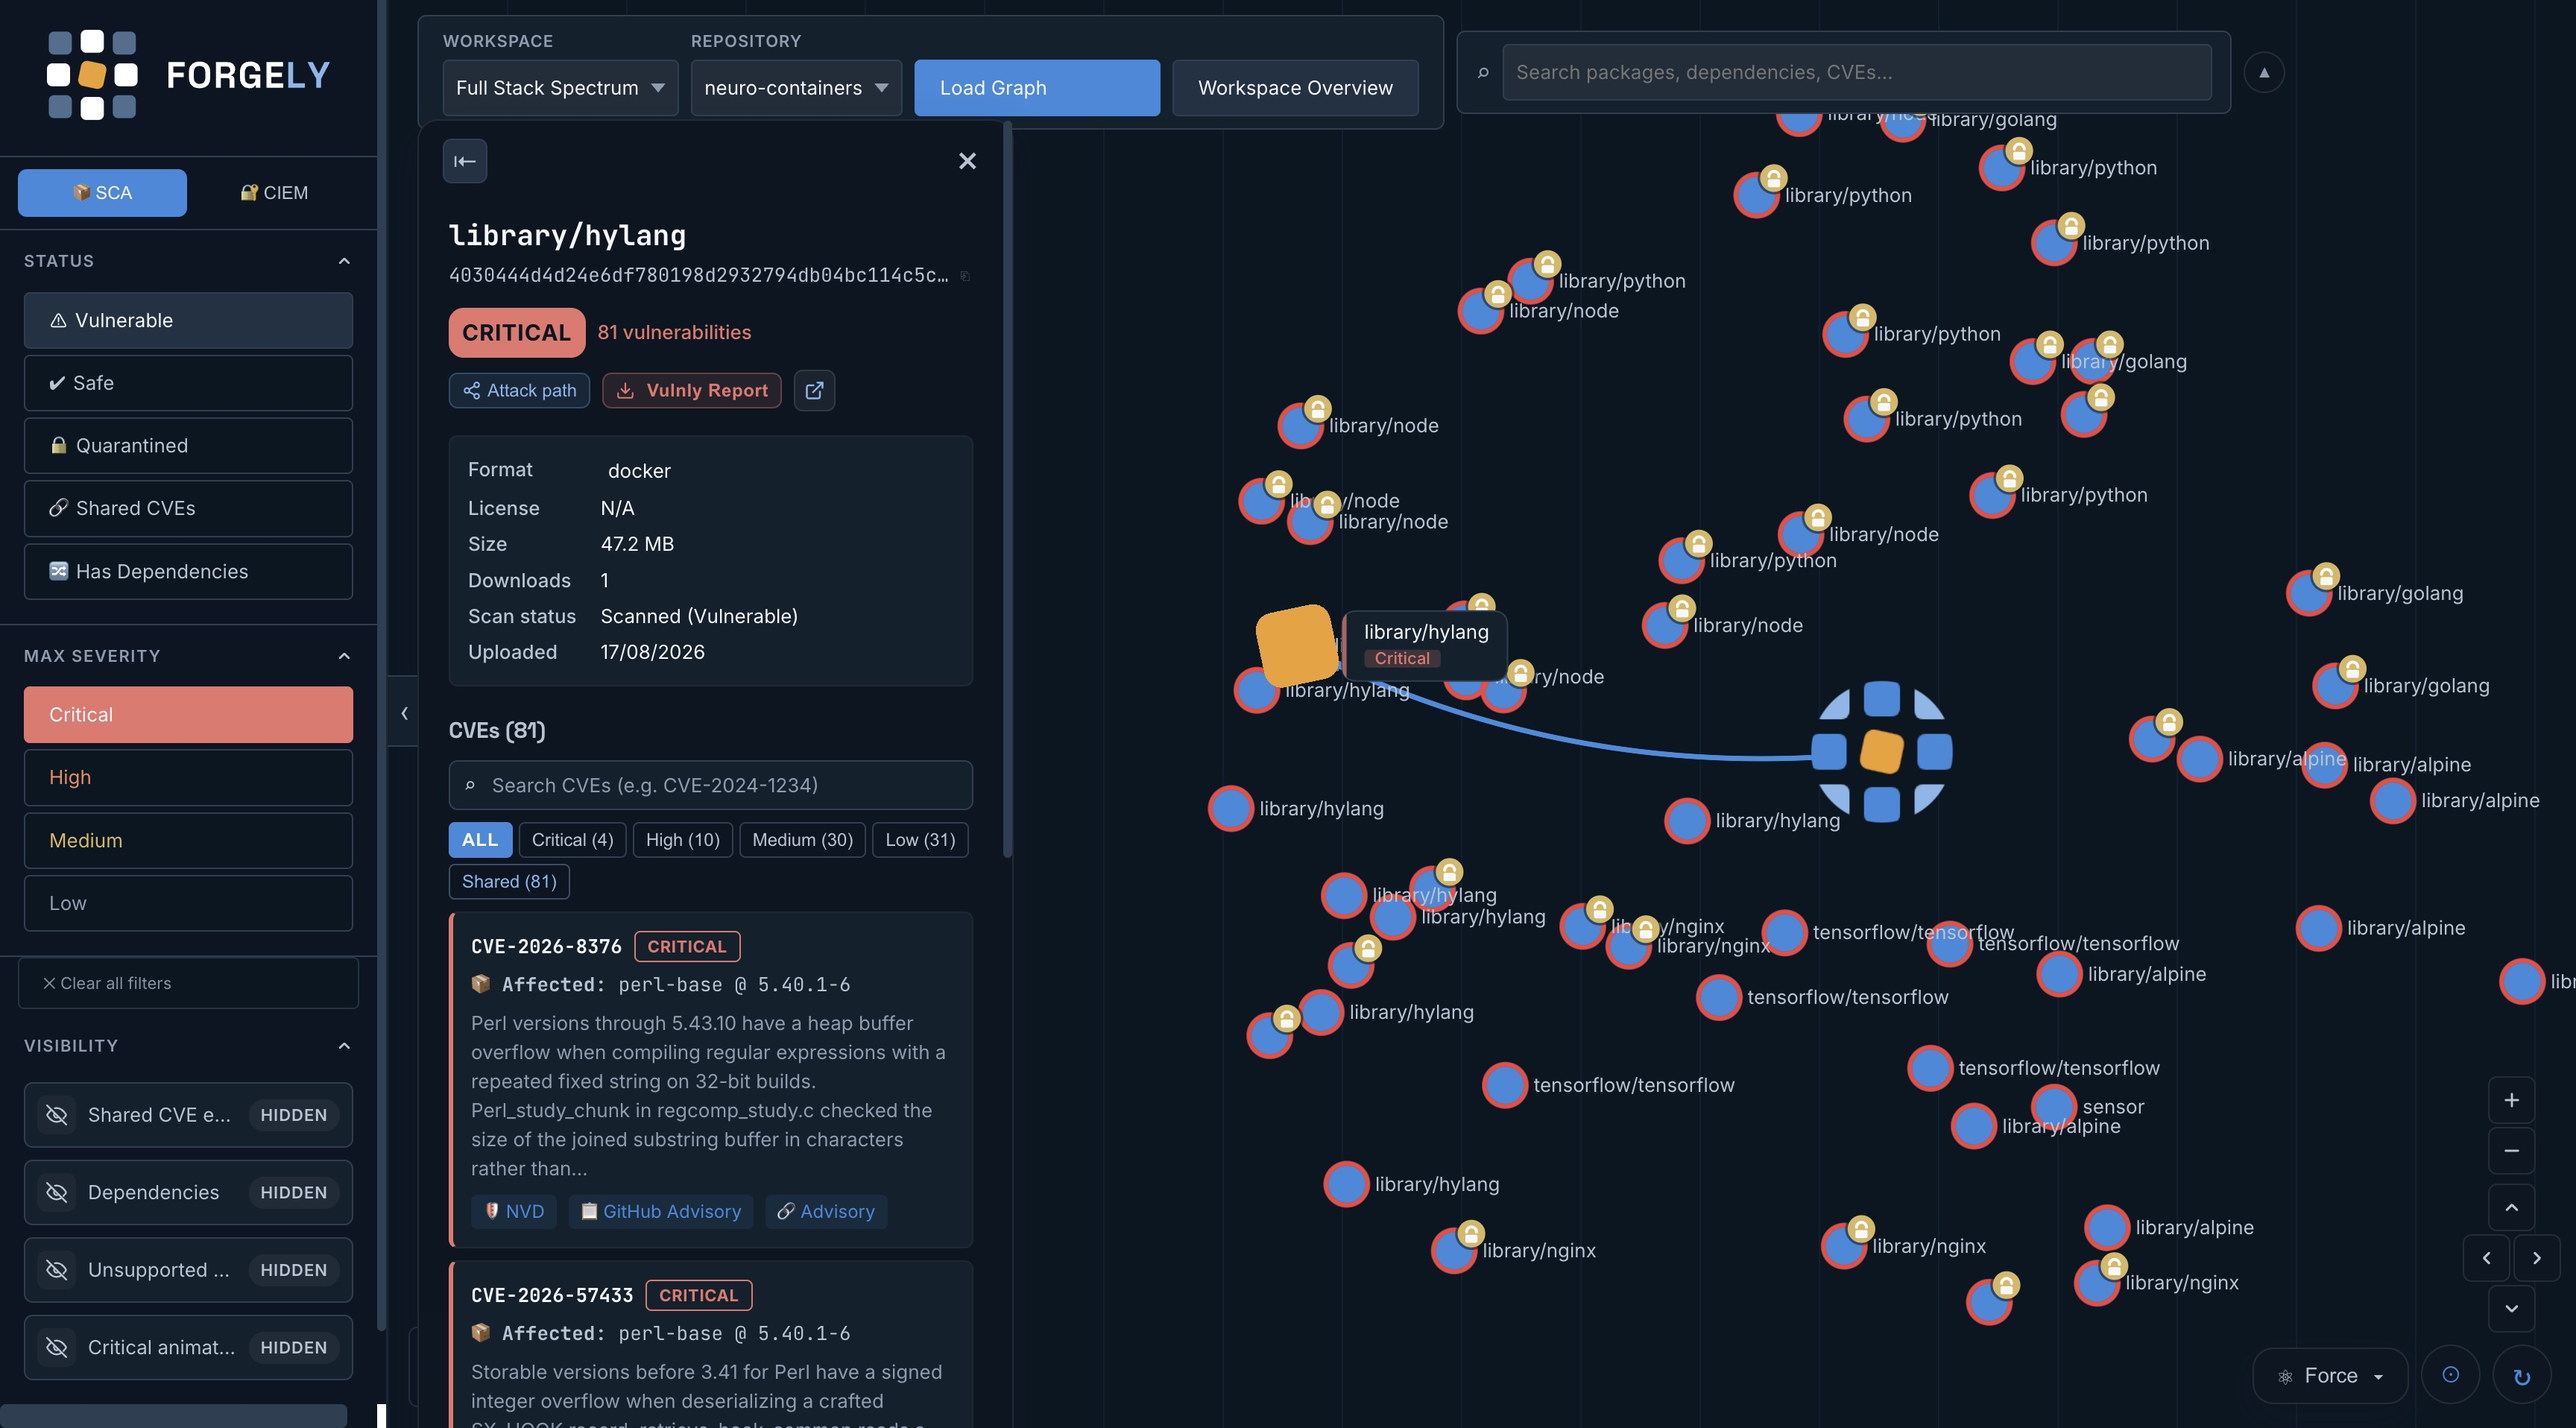
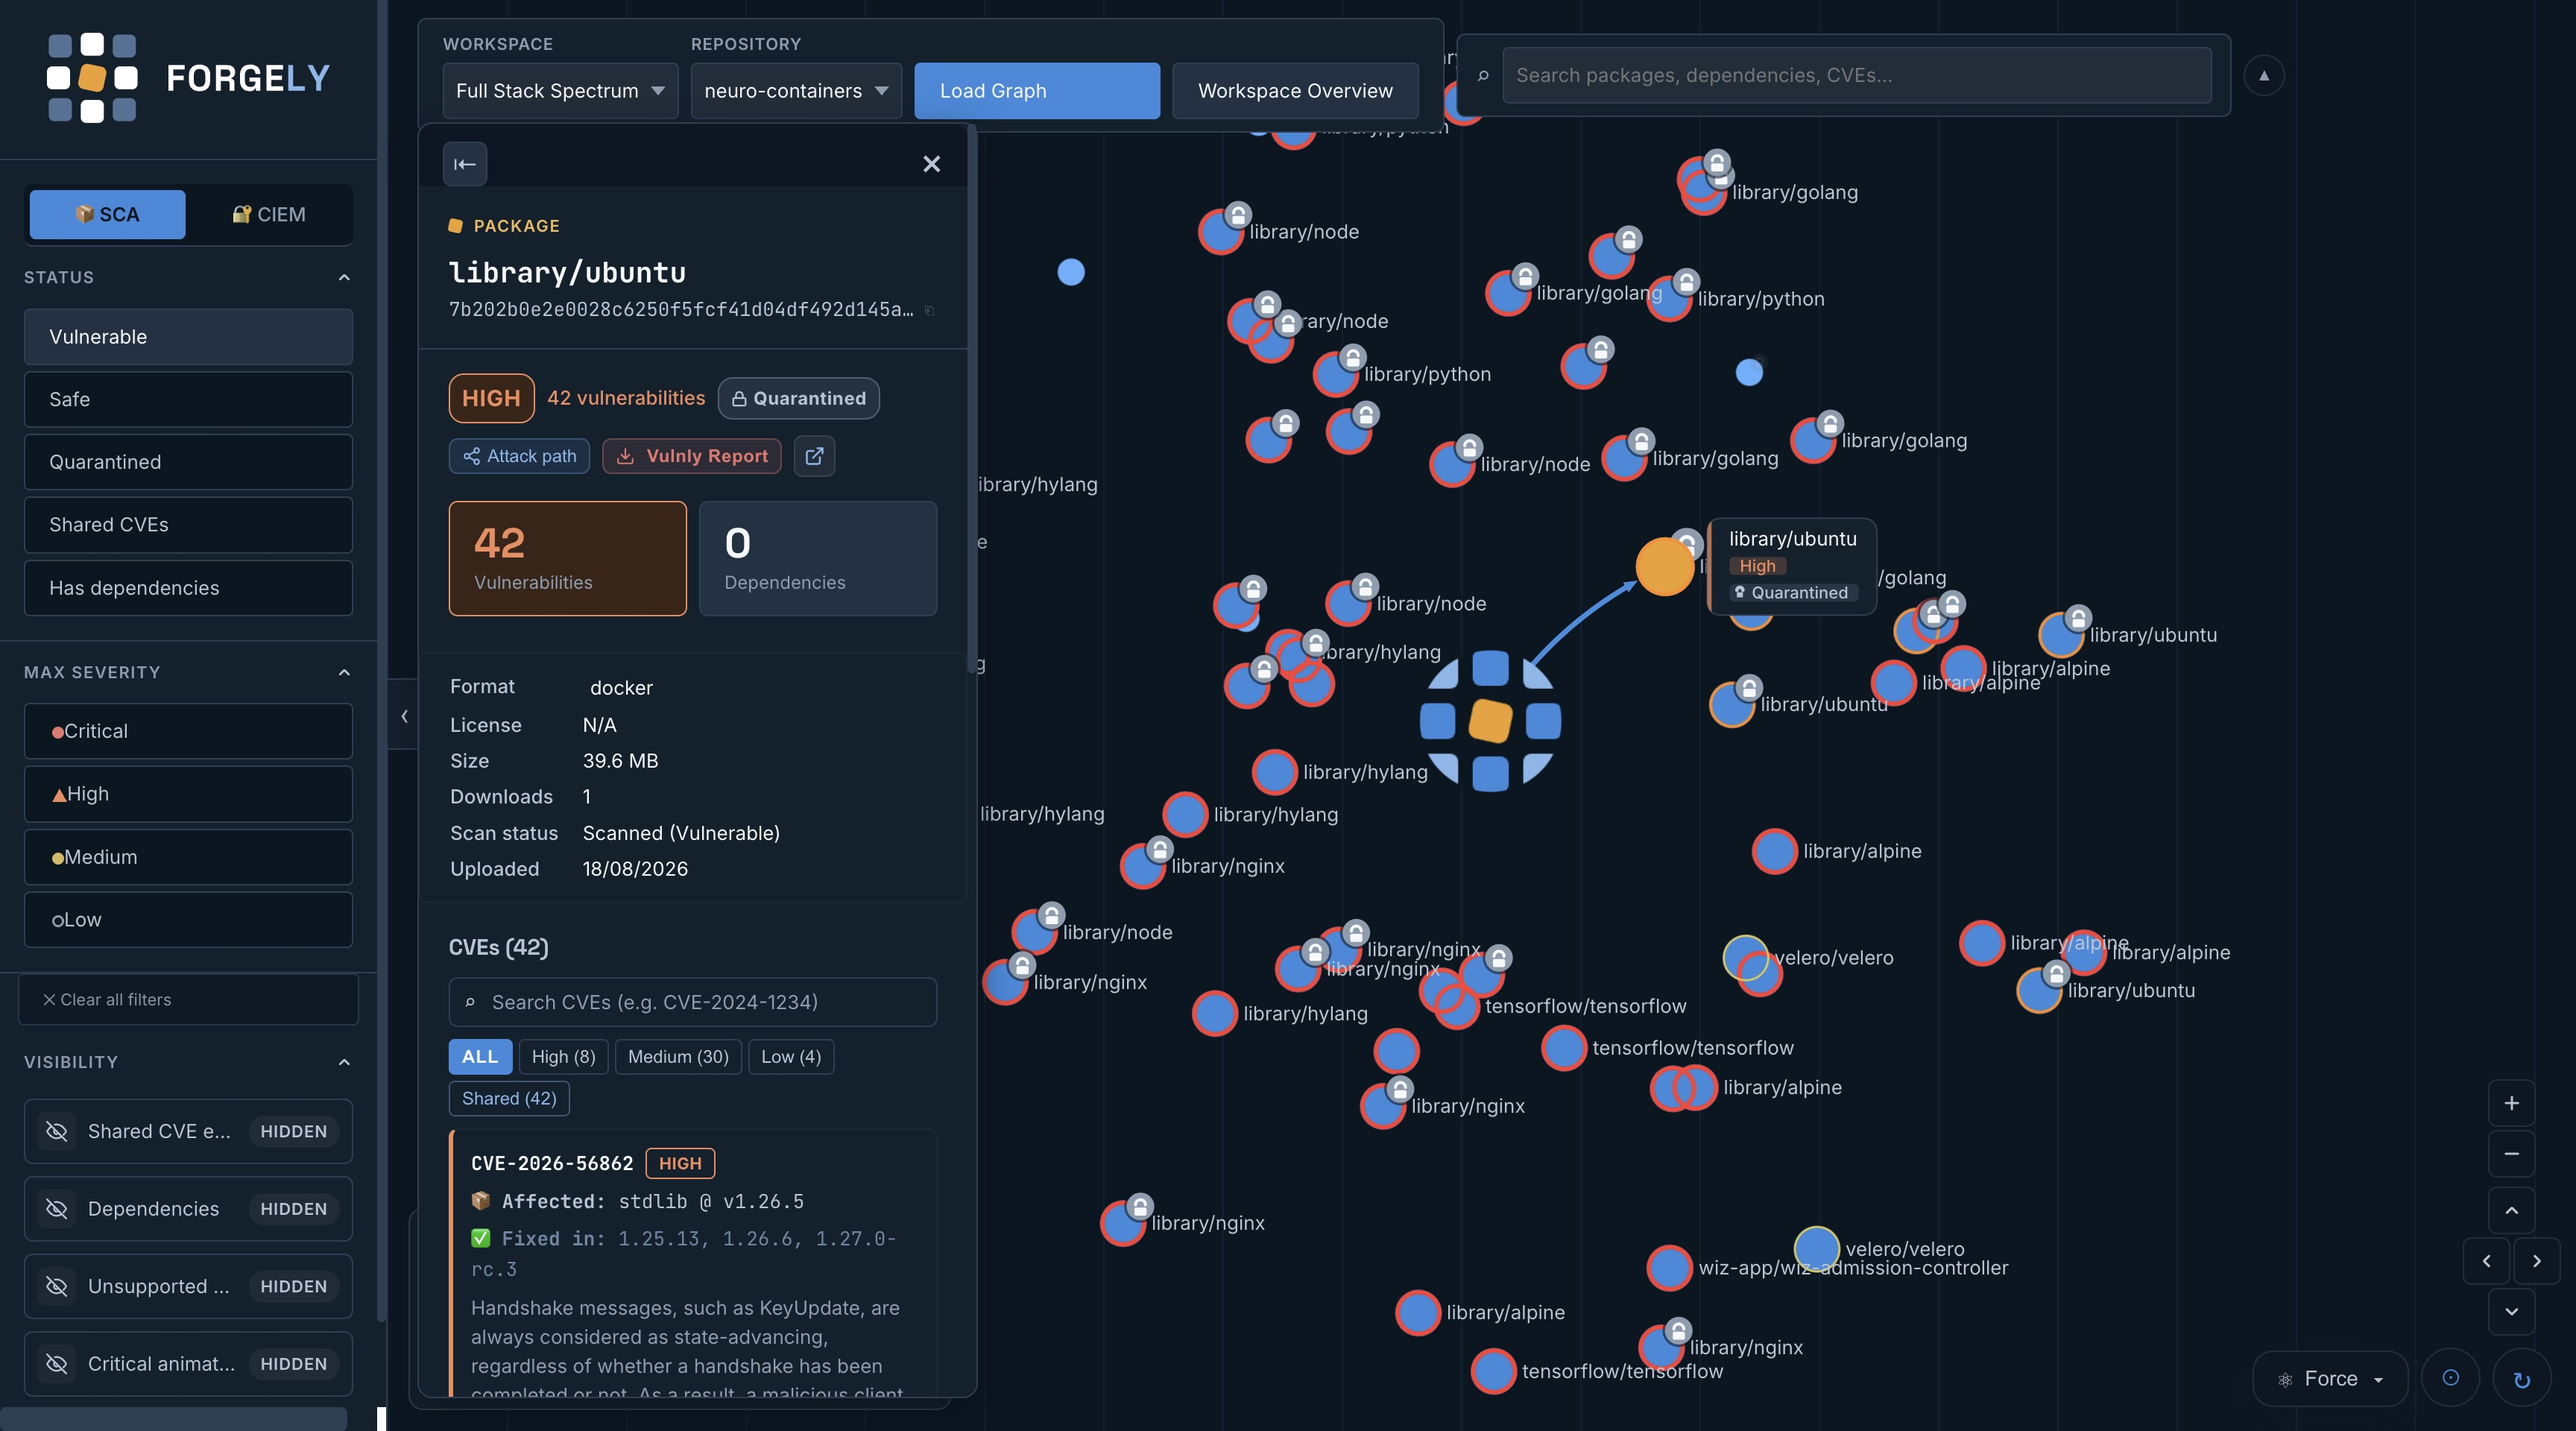
fix: don't treat hidden edges as relationships
Neighbours were computed with forEachNeighbor, which ignores edge kind.
Every vulnerable package shares CVEs with every other, so selecting one
made all 43 of them neighbours — and neighbours stay bright. Safe
packages dimmed correctly, which is why the bug only appeared when
selecting something vulnerable.

With "Shared CVE edges" hidden, those nodes stayed at full strength on
the basis of edges that were not even drawn. Traversal now skips hidden
edge kinds, in the neighbour set, the hop distances and the hover
dimming alike.

On neuro-containers, selecting the most vulnerable package now dims 201
nodes rather than 170.

diff --git a/frontend/src/components/GraphCanvas.tsx b/frontend/src/components/GraphCanvas.tsx
@@ -248,9 +248,25 @@ export default function GraphCanvas({
 
   /* Keep the ref in sync and tell sigma to re-render */
   useEffect(() => {
+    /* An edge the user has hidden is not a relationship they are looking at,
+       so it must not keep a node bright either. forEachNeighbor ignores edge
+       kind entirely, which meant every vulnerable package counted as a
+       neighbour of every other through shared-CVE edges — even with those
+       edges hidden. Selecting a vulnerable package therefore dimmed the safe
+       nodes and left every vulnerable one at full strength, with its edges
+       invisible: a highlight with nothing visible to justify it. */
+    const traversable = (attrs: { edgeKind?: string }) => {
+      if (attrs.edgeKind === "shared_cve" && hideSharedCveEdges) return false;
+      if (attrs.edgeKind === "dependency" && hideDependencies) return false;
+      return true;
+    };
+
     const neighbors = new Set<string>();
     if (selectedNode && graphRef.current) {
-      graphRef.current.forEachNeighbor(selectedNode, (n) => neighbors.add(n));
+      graphRef.current.forEachEdge(selectedNode, (_e, attrs, src, tgt) => {
+        if (!traversable(attrs)) return;
+        neighbors.add(src === selectedNode ? tgt : src);
+      });
     }
 
     /* Hop distance from the origin (§2.5). Fill encodes reach; the ring
@@ -280,6 +296,7 @@ export default function GraphCanvas({
                measured on neuro-containers, a vulnerable package gives
                {0:1, 1:39, 2:2, far:161} instead of {0:1, 1:40, 2:162}. */
             if (attrs.edgeKind === "repo_package") return;
+            if (!traversable(attrs)) return;
             const n = src === id ? tgt : src;
             if (hops.has(n)) return;
             hops.set(n, d);
@@ -292,7 +309,10 @@ export default function GraphCanvas({
 
     const hoverNeighbors = new Set<string>();
     if (hoveredNode && graphRef.current) {
-      graphRef.current.forEachNeighbor(hoveredNode, (n) => hoverNeighbors.add(n));
+      graphRef.current.forEachEdge(hoveredNode, (_e, attrs, src, tgt) => {
+        if (!traversable(attrs)) return;
+        hoverNeighbors.add(src === hoveredNode ? tgt : src);
+      });
     }
 
     /* Nodes connected to search results via shared_cve or dependency edges */
@@ -812,6 +832,14 @@ export default function GraphCanvas({
                encoding; opacity doesn't." Painting these the background colour
                erased the hop fill, which is the thing the dimming is meant to
                make legible. */
+            /* Rendered as a plain disc, not the format icon. The image
+               program computes its output alpha as max(texel.a, v_color.a),
+               so an opaque icon pins the node to full opacity and discards
+               any alpha set here — which is why dimming appeared to do
+               nothing while edges faded correctly. Dropping to circleRing
+               takes the node off the textured program so the alpha applies. */
+            res.type = "circleRing";
+            res.image = undefined;
             res.color = withAlpha(res.color as string, 0.25);
             res.borderSize = 0;
             res.size = Math.max(3, (attrs.size ?? 1) * 0.6);
@@ -821,6 +849,8 @@ export default function GraphCanvas({
         } else if (st.hoveredNode) {
           /* Hover-only (no selection): fade non-connected nodes more subtly */
           if (!st.hoverNeighbors.has(node) && attrs.nodeType !== "repo") {
+            res.type = "circleRing";
+            res.image = undefined;
             res.color = withAlpha(res.color as string, 0.35);
             res.borderSize = 0;
             res.size = Math.max(3, (attrs.size ?? 1) * 0.7);

diff --git a/frontend/src/index.css b/frontend/src/index.css
@@ -1484,9 +1484,12 @@ body {
   font-size: 12px;
   font-weight: 700;
   letter-spacing: 0.3px;
-  background: rgba(217, 182, 92, 0.15);
-  border: 1px solid rgba(217, 182, 92, 0.40);
-  color: var(--s-medium);
+  /* Neutral, matching the node badge. This was --s-medium: a severity colour
+     on a state that is not a severity, and gold enough to compete with the
+     ember origin for attention (§1, §2.4). */
+  background: rgba(139, 156, 175, 0.15);
+  border: 1px solid rgba(139, 156, 175, 0.40);
+  color: var(--t-secondary);
   white-space: nowrap;
   flex-shrink: 0;
 }
@@ -2470,10 +2473,10 @@ body {
   position: fixed;
   bottom: 14px;
   left: 274px;
-  background: rgba(10, 22, 34, 0.80);
-  border: 1px solid rgba(245, 248, 251, 0.10);
-  border-radius: var(--fg-radius-md);
-  padding: 12px 16px;
+  background: rgba(18, 32, 46, 0.92);
+  border: 1px solid var(--c-border);
+  border-radius: var(--fg-radius-lg);
+  padding: 16px;
   z-index: 100;
   backdrop-filter: blur(18px);
   -webkit-backdrop-filter: blur(18px);
@@ -5458,55 +5461,14 @@ td, th,
   font-weight: 600;
 }
 
-/* Filter rows */
-.btn.btn-block {
-  display: flex;
-  align-items: center;
-  gap: 12px;
-  width: 100%;
-  padding: 8px 12px;
-  border: none;
-  border-radius: var(--fg-radius-md);
-  background: none;
-  color: var(--t-secondary);
-  font-family: inherit;
-  font-size: var(--fg-text-sm);
-  font-weight: 400;
-  text-align: left;
-  cursor: pointer;
-  transition: background var(--fg-dur-instant) var(--fg-ease);
-}
-
-.btn.btn-block:hover {
-  background: var(--c-surface-raised);
-}
-
-/* The checkbox that replaces the button's border. */
-.btn.btn-block::before {
-  content: "";
-  width: 15px;
-  height: 15px;
-  flex: none;
-  border: 1.5px solid var(--c-border-strong);
-  border-radius: var(--fg-radius-sm);
-  transition: background var(--fg-dur-instant) var(--fg-ease),
-              border-color var(--fg-dur-instant) var(--fg-ease);
-}
-
-.btn.btn-block.btn-active {
-  background: none;
-  color: var(--t-primary);
-}
-
-.btn.btn-block.btn-active::before {
-  background: var(--c-action);
-  border-color: var(--c-action);
-}
-
+/* Sidebar filter rows keep the bordered-button treatment. An earlier pass
+   restyled these as checkbox rows via .btn.btn-block::before — but btn-block
+   is also worn by "Load Graph", "Workspace Overview" and the workspace load
+   button, so every one of those grew a checkbox. */
 .left-panel-btn-group {
   display: flex;
   flex-direction: column;
-  gap: 2px;
+  gap: 4px;
 }
 
 /* Severity rows show the mark rather than a colour-filled button — the level
